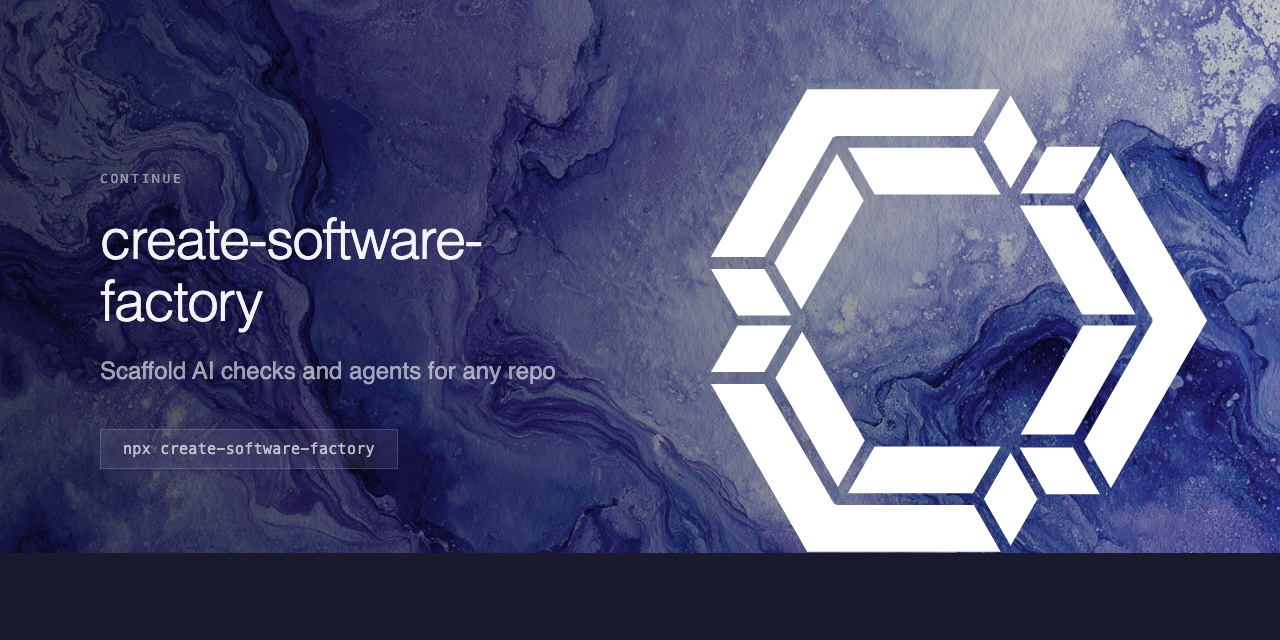
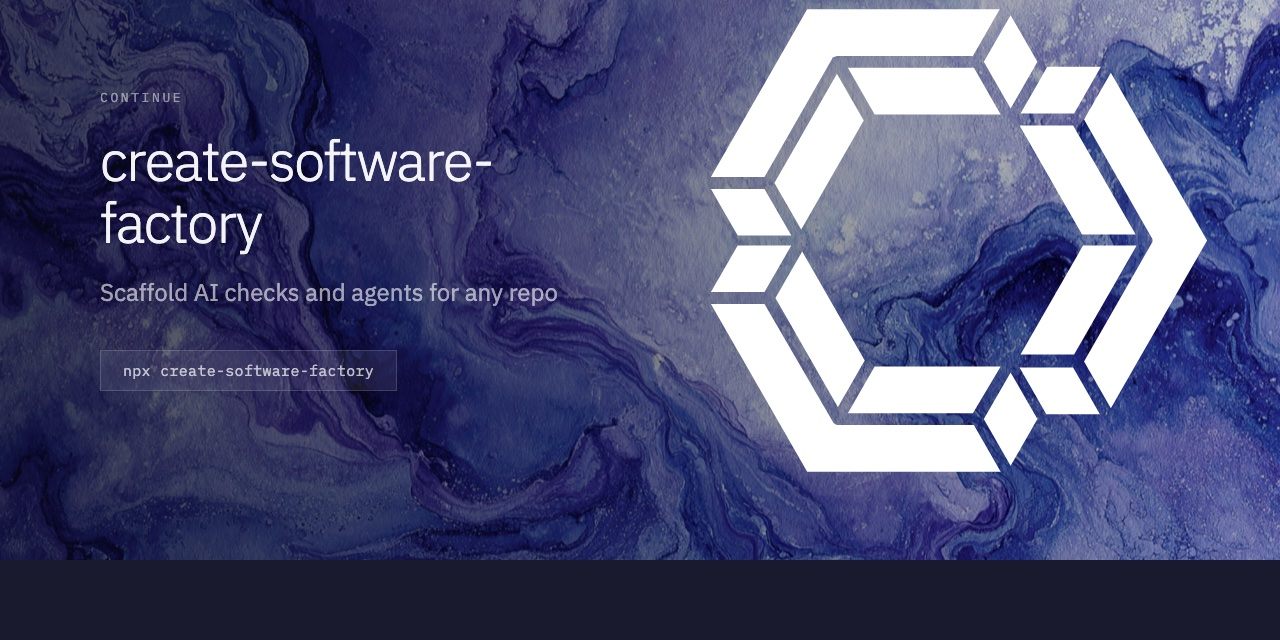
fix: eliminate dark strip in OG card by pre-cropping background
Chrome headless wasn't reliably rendering object-fit:cover. Pre-crop
og-bg.png to exactly 1280x640 (og-bg-card.png) so no object-fit is
needed. Background now fills edge to edge.

diff --git a/.github/assets/og-card.html b/.github/assets/og-card.html
@@ -9,26 +9,36 @@
 <link href="https://fonts.googleapis.com/css2?family=IBM+Plex+Mono:wght@400&family=IBM+Plex+Sans:wght@300;400;500&display=swap" rel="stylesheet">
 <style>
   * { margin: 0; padding: 0; box-sizing: border-box; }
+  html {
+    background: #1a1a2e;
+  }
   body {
     width: 1280px;
     height: 640px;
     overflow: hidden;
     font-family: 'IBM Plex Sans', -apple-system, sans-serif;
-    background: #1a1a2e;
     position: relative;
   }
 
   /* Watercolor background */
   .bg-image {
     position: absolute;
-    inset: 0;
-    background: url('./og-bg.png') center/cover no-repeat;
+    top: 0; left: 0;
+    width: 1280px;
+    height: 640px;
+  }
+  .bg-image img {
+    width: 1280px;
+    height: 640px;
+    display: block;
   }
 
   /* Gradient overlay — darker on left for text, transparent on right for icon */
   .bg-wash {
     position: absolute;
-    inset: 0;
+    top: 0; left: 0;
+    width: 1280px;
+    height: 640px;
     background: linear-gradient(
       to right,
       rgba(10, 10, 30, 0.7) 0%,
@@ -42,7 +52,7 @@
     position: relative;
     z-index: 1;
     width: 660px;
-    height: 100%;
+    height: 640px;
     display: flex;
     flex-direction: column;
     justify-content: center;
@@ -97,12 +107,11 @@
     transform: translateY(-50%);
     width: 520px;
     height: 520px;
-    opacity: 1;
   }
 </style>
 </head>
 <body>
-  <div class="bg-image"></div>
+  <div class="bg-image"><img src="./og-bg-card.png" alt=""></div>
   <div class="bg-wash"></div>
   <div class="content">
     <p class="label">Continue</p>
